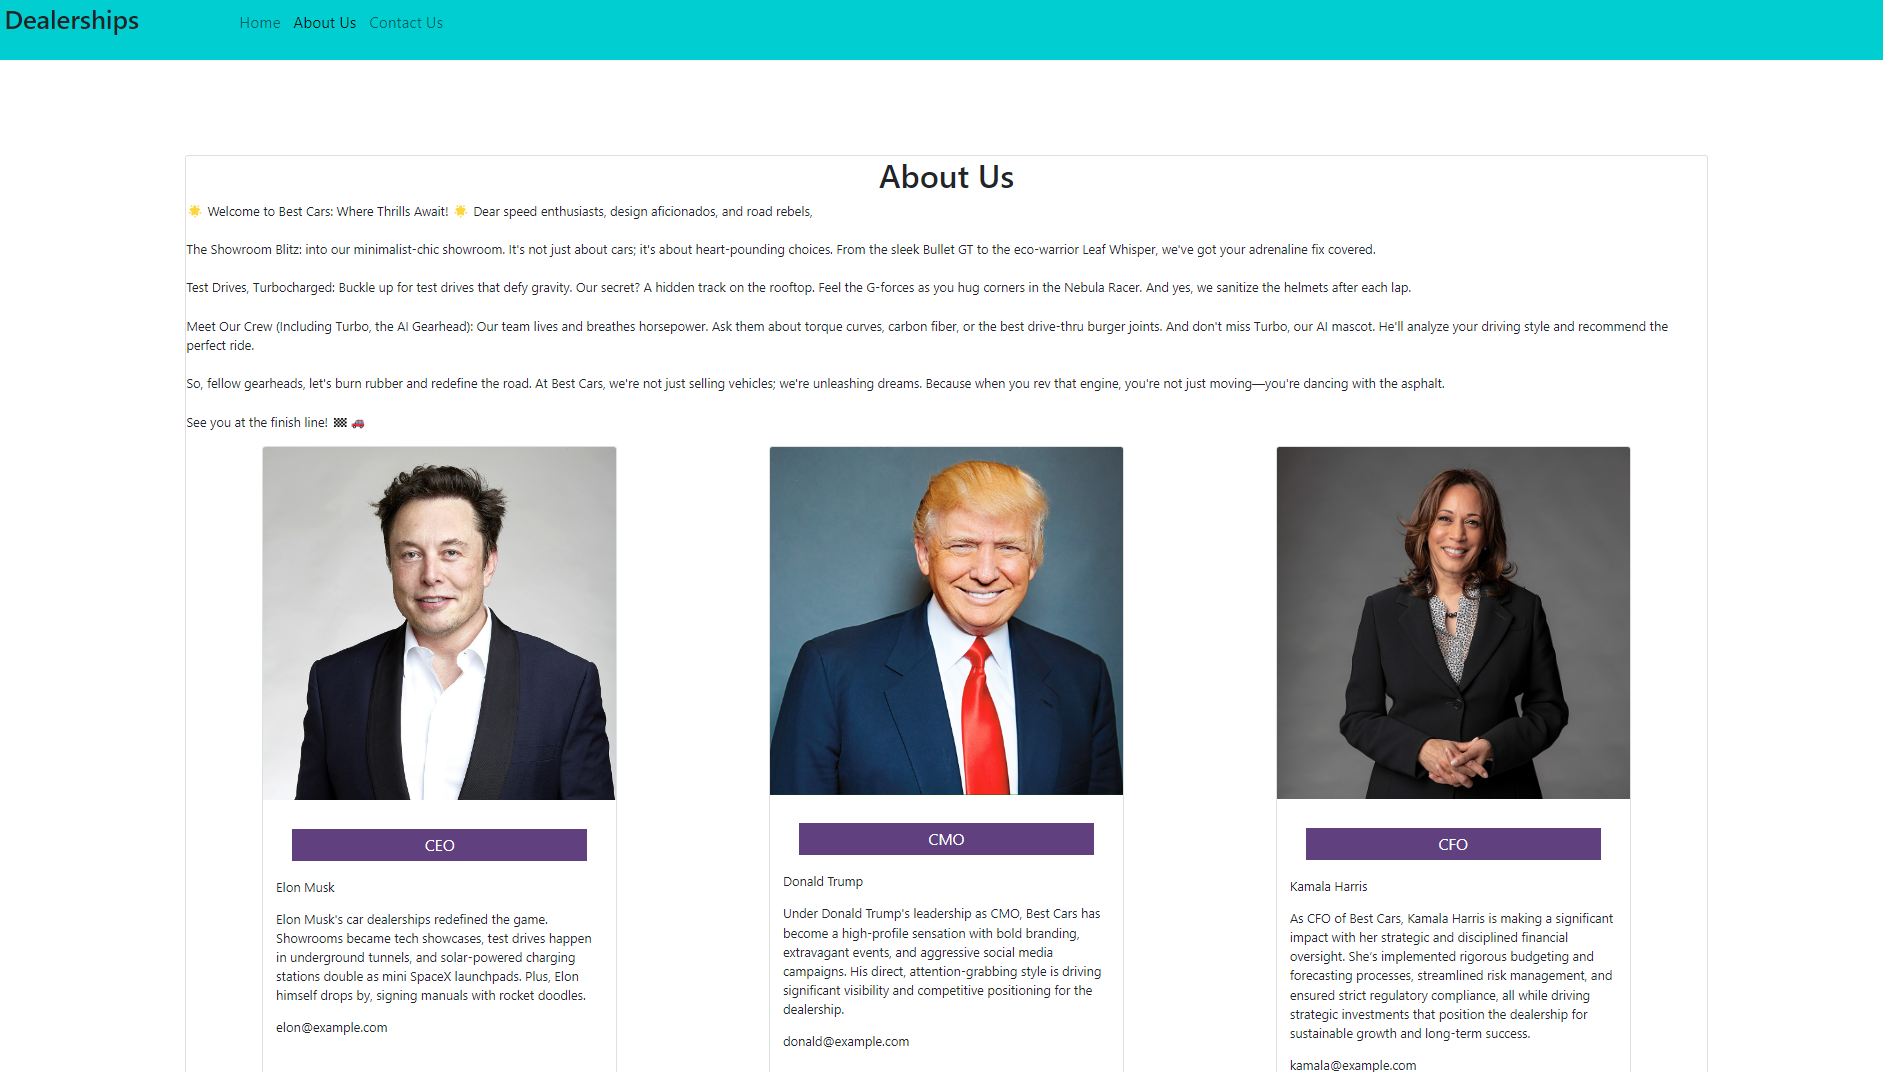
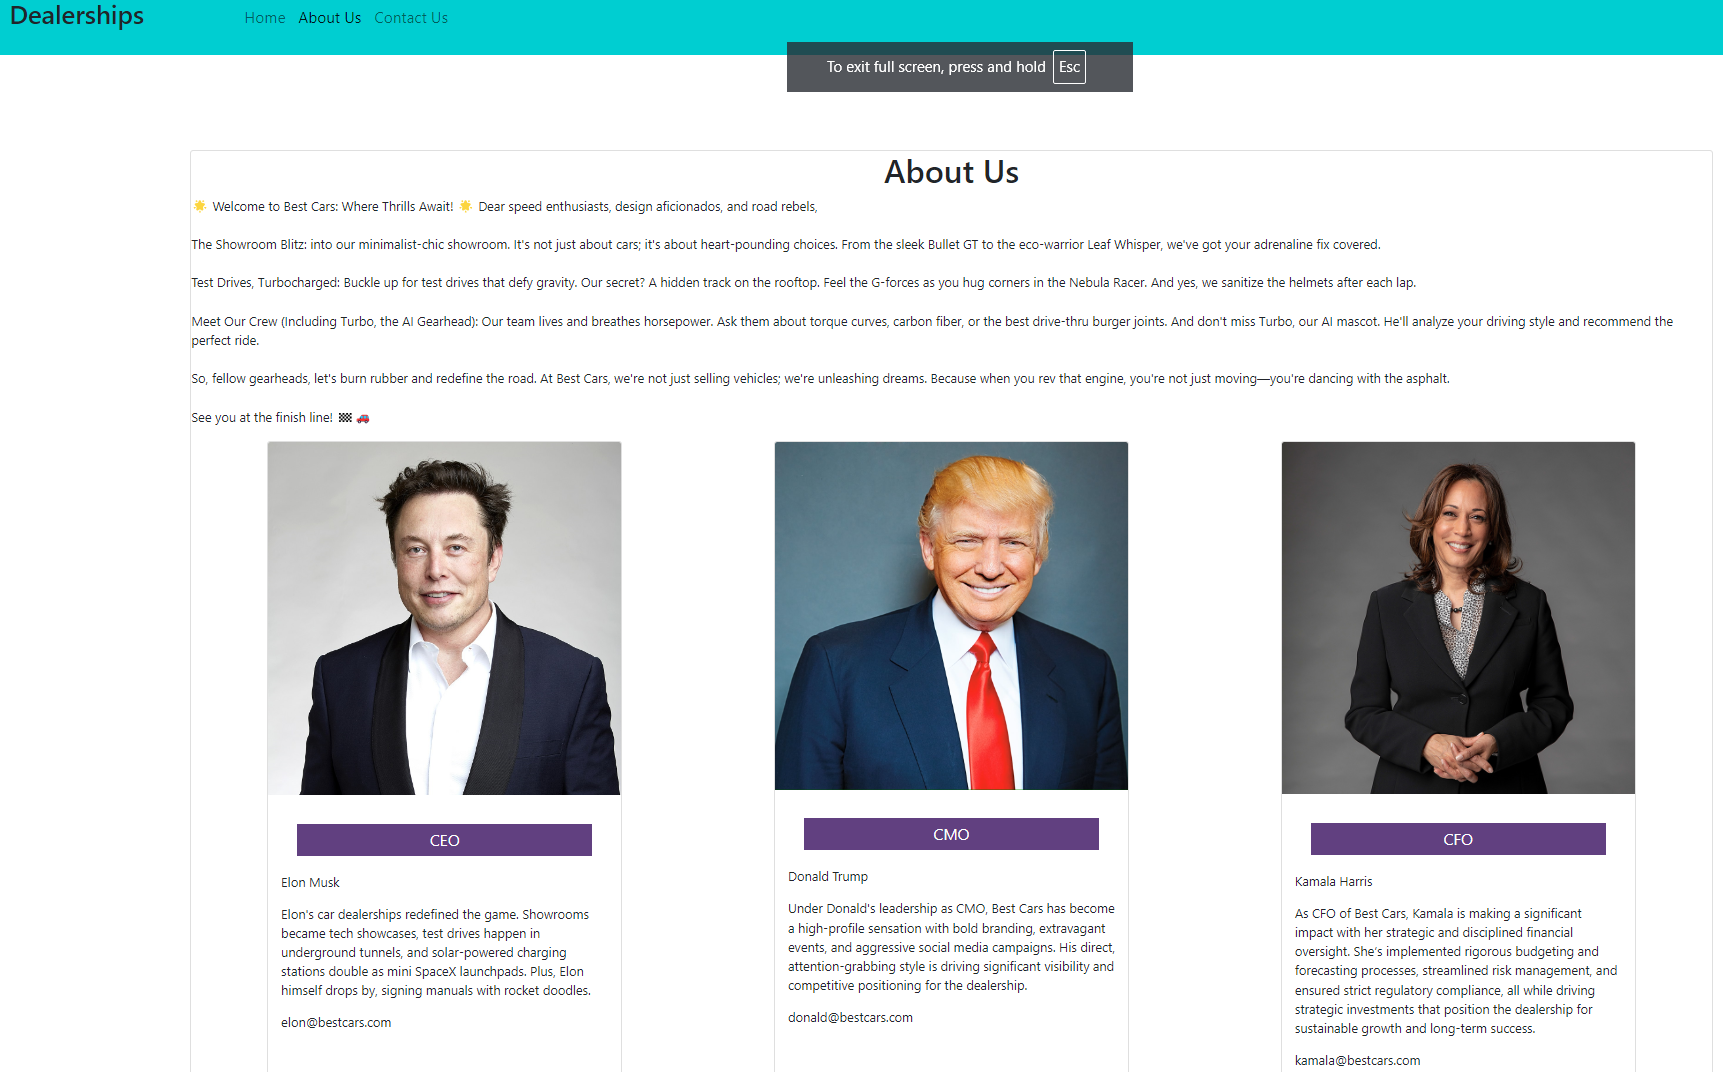
User management added

diff --git a/server/frontend/src/components/Register/Register.jsx b/server/frontend/src/components/Register/Register.jsx
@@ -1,0 +1,98 @@
+import React, { useState } from "react";
+import "./Register.css";
+import user_icon from "../assets/person.png"
+import email_icon from "../assets/email.png"
+import password_icon from "../assets/password.png"
+import close_icon from "../assets/close.png"
+
+const Register = () => {
+
+  const [userName, setUserName] = useState("");
+  const [password, setPassword] = useState("");
+  const [email, setEmail] = useState("");
+  const [firstName, setFirstName] = useState("");
+  const [lastName, setlastName] = useState("");
+
+
+  const gohome = ()=> {
+    window.location.href = window.location.origin;
+  }
+
+  const register = async (e) => {
+    e.preventDefault();
+
+    let register_url = window.location.origin+"/djangoapp/register";
+    
+    const res = await fetch(register_url, {
+        method: "POST",
+        headers: {
+            "Content-Type": "application/json",
+        },
+        body: JSON.stringify({
+            "userName": userName,
+            "password": password,
+            "firstName":firstName,
+            "lastName":lastName,
+            "email":email
+        }),
+    });
+
+    const json = await res.json();
+    if (json.status) {
+        sessionStorage.setItem('username', json.userName);
+        window.location.href = window.location.origin;
+    }
+    else if (json.error === "Already Registered") {
+      alert("The user with same username is already registered");
+      window.location.href = window.location.origin;
+    }
+};
+
+  return(
+    <div className="register_container" style={{width: "50%"}}>
+      <div className="header" style={{display: "flex",flexDirection: "row", justifyContent: "space-between"}}>
+          <span className="text" style={{flexGrow:"1"}}>SignUp</span> 
+          <div style={{display: "flex",flexDirection: "row", justifySelf: "end", alignSelf: "start" }}>
+          <a href="/" onClick={()=>{gohome()}} style={{justifyContent: "space-between", alignItems:"flex-end"}}>
+            <img style={{width:"1cm"}} src={close_icon} alt="X"/>
+          </a>
+          </div>
+          <hr/>
+        </div>
+
+        <form onSubmit={register}>
+        <div className="inputs">
+          <div className="input">
+            <img src={user_icon} className="img_icon" alt='Username'/>
+            <input type="text"  name="username" placeholder="Username" className="input_field" onChange={(e) => setUserName(e.target.value)}/>
+          </div>
+          <div>
+            <img src={user_icon} className="img_icon" alt='First Name'/>
+            <input type="text"  name="first_name" placeholder="First Name" className="input_field" onChange={(e) => setFirstName(e.target.value)}/>
+          </div>
+
+          <div>
+            <img src={user_icon} className="img_icon" alt='Last Name'/>
+            <input type="text"  name="last_name" placeholder="Last Name" className="input_field" onChange={(e) => setlastName(e.target.value)}/>
+          </div>
+
+          <div>
+            <img src={email_icon} className="img_icon" alt='Email'/>
+            <input type="email"  name="email" placeholder="email" className="input_field" onChange={(e) => setEmail(e.target.value)}/>
+          </div>
+
+          <div className="input">
+            <img src={password_icon} className="img_icon" alt='password'/>
+            <input name="psw" type="password"  placeholder="Password" className="input_field" onChange={(e) => setPassword(e.target.value)}/>
+          </div>
+
+        </div>
+        <div className="submit_panel">
+          <input className="submit" type="submit" value="Register"/>
+        </div>
+      </form>
+      </div>
+  )
+}
+
+export default Register;

diff --git a/server/frontend/static/About.html b/server/frontend/static/About.html
@@ -50,7 +50,7 @@
         <div class="card-body">
           <p class="title">CEO</p>
           <p>Elon Musk</p>
-          <p class="card-text">Elon Musk's car dealerships redefined the game. Showrooms became tech showcases, test drives happen in underground tunnels, and solar-powered charging stations double as mini SpaceX launchpads. Plus, Elon himself drops by, signing manuals with rocket doodles.</p>
+          <p class="card-text">Elon's car dealerships redefined the game. Showrooms became tech showcases, test drives happen in underground tunnels, and solar-powered charging stations double as mini SpaceX launchpads. Plus, Elon himself drops by, signing manuals with rocket doodles.</p>
           <p>elon@bestcars.com</p>
         </div>
       </div>
@@ -60,7 +60,7 @@
         <div class="card-body">
           <p class="title">CMO</p>
           <p>Donald Trump</p>
-          <p class="card-text">Under Donald Trump's leadership as CMO, Best Cars has become a high-profile sensation with bold branding, extravagant events, and aggressive social media campaigns. His direct, attention-grabbing style is driving significant visibility and competitive positioning for the dealership.</p>
+          <p class="card-text">Under Donald's leadership as CMO, Best Cars has become a high-profile sensation with bold branding, extravagant events, and aggressive social media campaigns. His direct, attention-grabbing style is driving significant visibility and competitive positioning for the dealership.</p>
           <p>donald@bestcars.com</p>
         </div>
       </div>
@@ -70,7 +70,7 @@
         <div class="card-body">
           <p class="title">CFO</p>
           <p>Kamala Harris</p>
-          <p class="card-text">As CFO of Best Cars, Kamala Harris is making a significant impact with her strategic and disciplined financial oversight. She’s implemented rigorous budgeting and forecasting processes, streamlined risk management, and ensured strict regulatory compliance, all while driving strategic investments that position the dealership for sustainable growth and long-term success.</p>
+          <p class="card-text">As CFO of Best Cars, Kamala is making a significant impact with her strategic and disciplined financial oversight. She’s implemented rigorous budgeting and forecasting processes, streamlined risk management, and ensured strict regulatory compliance, all while driving strategic investments that position the dealership for sustainable growth and long-term success.</p>
           <p>kamala@bestcars.com</p>
         </div>
       </div>

diff --git a/server/frontend/static/Home.html b/server/frontend/static/Home.html
@@ -8,6 +8,23 @@
 
 const logout = async (e) => {
 //Include the code for logout here.
+  let logout_url = window.location.origin+"/djangoapp/logout";
+  const res = await fetch(logout_url, {
+    method: "GET",
+  });
+
+  const json = await res.json();
+  if (json) {
+    let username = sessionStorage.getItem('username');
+    sessionStorage.removeItem('username');
+    window.location.href = window.location.origin;
+    window.location.reload();
+    alert("Logging out "+username+"...")
+  }
+  else {
+    alert("The user could not be logged out.")
+  }
+
 };
 
 let checkSession = ()=>{
@@ -52,8 +69,8 @@ let checkSession = ()=>{
   </div>
 </nav>
 <div style="display: flex;flex-direction: column;">
-<div class="card" style="width: 50%;margin-top: 50px;align-self: center;">
-  <img src="static/car_dealership.jpg" class="card-img-top" alt="...">
+<div class="card" style="width: 60%;margin-top: 50px;align-self: center;">
+  <img src="static/car_dealership.png" class="card-img-top" alt="...">
   <div class="banner">
     <h5>Welcome to our Dealerships!</h5>
     <a href="/dealers" class="btn" style="background-color: aqua;margin:10px">View Dealerships</a>

diff --git a/server/frontend/src/App.js b/server/frontend/src/App.js
@@ -1,10 +1,12 @@
 import LoginPanel from "./components/Login/Login"
+import RegisterPanel from "./components/Register/Register"
 import { Routes, Route } from "react-router-dom";
 
 function App() {
   return (
     <Routes>
       <Route path="/login" element={<LoginPanel />} />
+      <Route path="/register" element={<RegisterPanel />} />
     </Routes>
   );
 }

diff --git a/server/djangoapp/views.py b/server/djangoapp/views.py
@@ -1,12 +1,12 @@
 # Uncomment the required imports before adding the code
 
-# from django.shortcuts import render
-# from django.http import HttpResponseRedirect, HttpResponse
-# from django.contrib.auth.models import User
-# from django.shortcuts import get_object_or_404, render, redirect
-# from django.contrib.auth import logout
-# from django.contrib import messages
-# from datetime import datetime
+from django.shortcuts import render
+from django.http import HttpResponseRedirect, HttpResponse
+from django.contrib.auth.models import User
+from django.shortcuts import get_object_or_404, render, redirect
+from django.contrib.auth import logout
+from django.contrib import messages
+from datetime import datetime
 
 from django.http import JsonResponse
 from django.contrib.auth import login, authenticate
@@ -39,13 +39,45 @@ def login_user(request):
     return JsonResponse(data)
 
 # Create a `logout_request` view to handle sign out request
-# def logout_request(request):
-# ...
+def logout_request(request):
+    logout(request)
+    data = {"userName":""}
+    return JsonResponse(data)
 
 # Create a `registration` view to handle sign up request
-# @csrf_exempt
-# def registration(request):
-# ...
+@csrf_exempt
+def registration(request):
+# Get user data from request.body JSON dictionary
+    data = json.loads(request.body)
+    username = data['userName']
+    password = data['password']
+    first_name = data['firstName']
+    last_name = data['lastName']
+    email = data['email']
+    user_exist = False
+
+    #Check if a new user. If new - create a new user. If not new - not add a new user, log error message "New user"
+    try:
+        User.objects.get(username=username)
+        user_exist = True
+    except:
+        logger.error("New user")
+    
+    #If a new user
+    if not user_exist:
+        #Create a new user in auth_user table
+        user = User.objects.create_user(username=username, first_name=first_name, last_name=last_name,
+                                        password=password, email=email)
+        #Login the new user 
+        login(request, user)
+        data = {"userName":username, "status": "Authenticated"}
+        # return JsonResponse(data)
+    else:
+        data = {"userName":username,"error":"Already Registered"}
+    
+    #Redirect to list page
+    return JsonResponse(data)
+
 
 # # Update the `get_dealerships` view to render the index page with
 # a list of dealerships

diff --git a/server/djangoproj/settings.py b/server/djangoproj/settings.py
@@ -62,7 +62,9 @@ TEMPLATES = [
     {
         'BACKEND': 'django.template.backends.django.DjangoTemplates',
         'DIRS': [
-            os.path.join(BASE_DIR,'frontend/static')
+            os.path.join(BASE_DIR,'frontend/static'),
+            os.path.join(BASE_DIR, 'frontend/build'),
+            os.path.join(BASE_DIR, 'frontend/build/static'),
         ],
         'APP_DIRS': True,
         'OPTIONS': {
@@ -137,6 +139,8 @@ MEDIA_URL = '/media/'
 DEFAULT_AUTO_FIELD = 'django.db.models.BigAutoField'
 
 STATICFILES_DIRS = [
-    os.path.join(BASE_DIR,'frontend/static')
+    os.path.join(BASE_DIR,'frontend/static'),
+    os.path.join(BASE_DIR, 'frontend/build'),
+    os.path.join(BASE_DIR, 'frontend/build/static'),
 ]
 

diff --git a/server/djangoapp/urls.py b/server/djangoapp/urls.py
@@ -1,15 +1,19 @@
 # Uncomment the imports before you add the code
-# from django.urls import path
+from django.urls import path
 from django.conf.urls.static import static
 from django.conf import settings
-# from . import views
+from . import views
 
 app_name = 'djangoapp'
 urlpatterns = [
     # # path for registration
+    path(route='register', view=views.registration, name='register'),
 
     # path for login
-    # path(route='login', view=views.login_user, name='login'),
+    path(route='login', view=views.login_user, name='login'),
+
+    # path for logout
+    path(route='logout', view=views.logout_request, name='logout'),
 
     # path for dealer reviews view
 

diff --git a/server/djangoproj/urls.py b/server/djangoproj/urls.py
@@ -25,4 +25,6 @@ urlpatterns = [
     path('', TemplateView.as_view(template_name="Home.html")),
     path('about/', TemplateView.as_view(template_name="About.html")),
     path('contact/', TemplateView.as_view(template_name="Contact.html")),
+    path('login/', TemplateView.as_view(template_name="index.html")),
+    path('register/', TemplateView.as_view(template_name="index.html")),
 ] + static(settings.STATIC_URL, document_root=settings.STATIC_ROOT)
